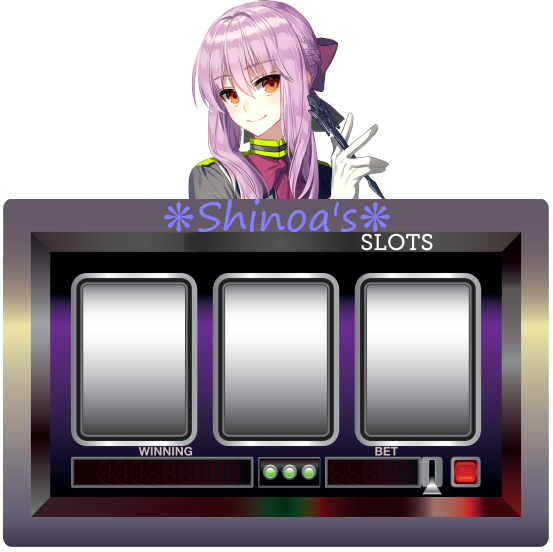
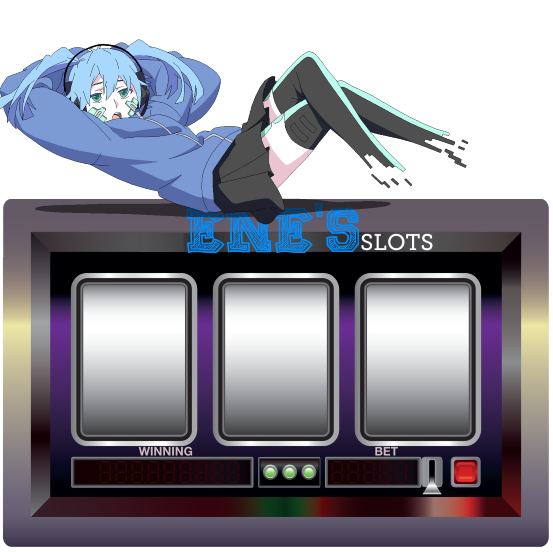
Updated to 1.55.3, Ene is ready! :3

Changed region(s): [[0.0, 0.0, 0.8608, 0.462]]

diff --git a/src/NadekoBot/Services/Administration/LogCommandService.cs b/src/NadekoBot/Services/Administration/LogCommandService.cs
@@ -66,14 +66,15 @@ namespace NadekoBot.Services.Administration
                 {
                     var keys = PresenceUpdates.Keys.ToList();
 
-                    await Task.WhenAll(keys.Select(async key =>
+                    await Task.WhenAll(keys.Select(key =>
                     {
-                        if (PresenceUpdates.TryRemove(key, out List<string> messages))
-                            try { await key.SendConfirmAsync(GetText(key.Guild, "presence_updates"), string.Join(Environment.NewLine, messages)); }
-                            catch
-                            {
-                                // ignored
-                            }
+                        if (PresenceUpdates.TryRemove(key, out var msgs))
+                        {
+                            var title = GetText(key.Guild, "presence_updates");
+                            var desc = string.Join(Environment.NewLine, msgs);
+                            return key.SendConfirmAsync(title, desc.TrimTo(2048));
+                        }
+                        return Task.CompletedTask;
                     }));
                 }
                 catch (Exception ex)
@@ -369,40 +370,59 @@ namespace NadekoBot.Services.Administration
             {
                 try
                 {
-                    if (!GuildLogSettings.TryGetValue(before.Guild.Id, out LogSetting logSetting)
-                        || (logSetting.UserUpdatedId == null))
+                    if (!GuildLogSettings.TryGetValue(before.Guild.Id, out LogSetting logSetting))
                         return;
 
                     ITextChannel logChannel;
-                    if ((logChannel = await TryGetLogChannel(before.Guild, logSetting, LogType.UserUpdated)) == null)
-                        return;
-                    var embed = new EmbedBuilder().WithOkColor().WithFooter(efb => efb.WithText(CurrentTime(before.Guild)))
-                        .WithTitle($"{before.Username}#{before.Discriminator} | {before.Id}");
-                    if (before.Nickname != after.Nickname)
+                    if (logSetting.UserUpdatedId != null && (logChannel = await TryGetLogChannel(before.Guild, logSetting, LogType.UserUpdated)) != null)
                     {
-                        embed.WithAuthor(eab => eab.WithName("👥 " + GetText(logChannel.Guild, "nick_change")))
+                        var embed = new EmbedBuilder().WithOkColor().WithFooter(efb => efb.WithText(CurrentTime(before.Guild)))
+                            .WithTitle($"{before.Username}#{before.Discriminator} | {before.Id}");
+                        if (before.Nickname != after.Nickname)
+                        {
+                            embed.WithAuthor(eab => eab.WithName("👥 " + GetText(logChannel.Guild, "nick_change")))
+                                .AddField(efb => efb.WithName(GetText(logChannel.Guild, "old_nick")).WithValue($"{before.Nickname}#{before.Discriminator}"))
+                                .AddField(efb => efb.WithName(GetText(logChannel.Guild, "new_nick")).WithValue($"{after.Nickname}#{after.Discriminator}"));
 
-                            .AddField(efb => efb.WithName(GetText(logChannel.Guild, "old_nick")).WithValue($"{before.Nickname}#{before.Discriminator}"))
-                            .AddField(efb => efb.WithName(GetText(logChannel.Guild, "new_nick")).WithValue($"{after.Nickname}#{after.Discriminator}"));
+                            await logChannel.EmbedAsync(embed).ConfigureAwait(false);
+                        }
+                        else if (!before.Roles.SequenceEqual(after.Roles))
+                        {
+                            if (before.Roles.Count < after.Roles.Count)
+                            {
+                                var diffRoles = after.Roles.Where(r => !before.Roles.Contains(r)).Select(r => r.Name);
+                                embed.WithAuthor(eab => eab.WithName("⚔ " + GetText(logChannel.Guild, "user_role_add")))
+                                    .WithDescription(string.Join(", ", diffRoles).SanitizeMentions());
+                            }
+                            else if (before.Roles.Count > after.Roles.Count)
+                            {
+                                var diffRoles = before.Roles.Where(r => !after.Roles.Contains(r)).Select(r => r.Name);
+                                embed.WithAuthor(eab => eab.WithName("⚔ " + GetText(logChannel.Guild, "user_role_rem")))
+                                    .WithDescription(string.Join(", ", diffRoles).SanitizeMentions());
+                            }
+                            await logChannel.EmbedAsync(embed).ConfigureAwait(false);
+                        }
                     }
-                    else if (!before.Roles.SequenceEqual(after.Roles))
+
+                    logChannel = null;
+                    if (logSetting.LogUserPresenceId != null && (logChannel = await TryGetLogChannel(before.Guild, logSetting, LogType.UserPresence)) != null)
                     {
-                        if (before.Roles.Count < after.Roles.Count)
+                        if (before.Status != after.Status)
                         {
-                            var diffRoles = after.Roles.Where(r => !before.Roles.Contains(r)).Select(r => r.Name);
-                            embed.WithAuthor(eab => eab.WithName("⚔ " + GetText(logChannel.Guild, "user_role_add")))
-                                .WithDescription(string.Join(", ", diffRoles).SanitizeMentions());
+                            var str = "🎭" + Format.Code(PrettyCurrentTime(after.Guild)) +
+                                  GetText(logChannel.Guild, "user_status_change",
+                                        "👤" + Format.Bold(after.Username),
+                                        Format.Bold(after.Status.ToString()));
+                            PresenceUpdates.AddOrUpdate(logChannel,
+                                new List<string>() { str }, (id, list) => { list.Add(str); return list; });
                         }
-                        else if (before.Roles.Count > after.Roles.Count)
+                        else if (before.Game?.Name != after.Game?.Name)
                         {
-                            var diffRoles = before.Roles.Where(r => !after.Roles.Contains(r)).Select(r => r.Name);
-                            embed.WithAuthor(eab => eab.WithName("⚔ " + GetText(logChannel.Guild, "user_role_rem")))
-                                .WithDescription(string.Join(", ", diffRoles).SanitizeMentions());
+                            var str = $"👾`{PrettyCurrentTime(after.Guild)}`👤__**{after.Username}**__ is now playing **{after.Game?.Name ?? "-"}**.";
+                            PresenceUpdates.AddOrUpdate(logChannel,
+                                new List<string>() { str }, (id, list) => { list.Add(str); return list; });
                         }
                     }
-                    else
-                        return;
-                    await logChannel.EmbedAsync(embed).ConfigureAwait(false);
                 }
                 catch
                 {
@@ -580,7 +600,7 @@ namespace NadekoBot.Services.Administration
                                 "👤" + Format.Bold(usr.Username + "#" + usr.Discriminator),
                                 Format.Bold(beforeVch.Name ?? ""));
                     }
-                    if (str != null)
+                    if (!string.IsNullOrWhiteSpace(str))
                         PresenceUpdates.AddOrUpdate(logChannel, new List<string>() { str }, (id, list) => { list.Add(str); return list; });
                 }
                 catch

diff --git a/src/NadekoBot/Modules/Utility/Utility.cs b/src/NadekoBot/Modules/Utility/Utility.cs
@@ -325,9 +325,9 @@ namespace NadekoBot.Modules.Utility
         {            
             await Context.Channel.EmbedAsync(
                 new EmbedBuilder().WithOkColor()
-                    .WithAuthor(eab => eab.WithName($"Click >>Here<< to invite me! | ❋Sнιησα❋ v{StatsService.BotVersion}")
-                                          .WithUrl("http://bit.ly/InvShinoa")
-                                          .WithIconUrl("http://i.imgur.com/ejLDGwO.png"))
+                    .WithAuthor(eab => eab.WithName($"Click >>Here<< to invite me! | ❋Σπε❋ v{StatsService.BotVersion}")
+                                          .WithUrl("http://bit.ly/InvEne")
+                                          .WithIconUrl("http://i.imgur.com/j1ZcL75.png"))
                     .AddField(efb => efb.WithName(GetText("author")).WithValue(_stats.Author).WithIsInline(true))
                     .AddField(efb => efb.WithName(GetText("botid")).WithValue(_client.CurrentUser.Id.ToString()).WithIsInline(true))
                     .AddField(efb => efb.WithName(GetText("shard")).WithValue($"#{_bot.ShardId} / {_creds.TotalShards}").WithIsInline(true))

diff --git a/src/NadekoBot/Modules/Music/Music.cs b/src/NadekoBot/Modules/Music/Music.cs
@@ -466,15 +466,14 @@ namespace NadekoBot.Modules.Music
         {
             var mp = await _music.GetOrCreatePlayer(Context);
 
-            var songs = await Task.WhenAll(mp.QueueArray().Songs
-                .Select(async s => new PlaylistSong()
+            var songs = mp.QueueArray().Songs
+                .Select(s => new PlaylistSong()
                 {
                     Provider = s.Provider,
                     ProviderType = s.ProviderType,
                     Title = s.Title,
-                    Uri = await s.Uri(),
                     Query = s.Query,
-                }).ToList());
+                }).ToList();
 
             MusicPlaylist playlist;
             using (var uow = _db.UnitOfWork)

diff --git a/src/NadekoBot/Services/GreetSettingsService.cs b/src/NadekoBot/Services/GreetSettingsService.cs
@@ -154,7 +154,10 @@ namespace NadekoBot.Services
                                 {
                                     await channel.EmbedAsync(embedData.ToEmbed(), embedData.PlainText?.SanitizeMentions() ?? "").ConfigureAwait(false);
                                 }
-                                catch (Exception ex) { _log.Warn(ex); }
+                                catch (Exception ex)
+                                {
+                                    _log.Warn(ex);
+                                }
                             }
                             else
                             {

diff --git a/src/NadekoBot/Modules/CustomReactions/CustomReactions.cs b/src/NadekoBot/Modules/CustomReactions/CustomReactions.cs
@@ -79,7 +79,7 @@ namespace NadekoBot.Modules.CustomReactions
                 .WithTitle(GetText("new_cust_react"))
                 .WithDescription($"#{cr.Id}")
                 .AddField(efb => efb.WithName(GetText("trigger")).WithValue(key))
-                .AddField(efb => efb.WithName(GetText("response")).WithValue(message))
+                .AddField(efb => efb.WithName(GetText("response")).WithValue(message.Length > 1024 ? GetText("redacted_too_long") : message))
                 ).ConfigureAwait(false);
         }
 

diff --git a/src/NadekoBot/Modules/Administration/Commands/UserPunishCommands.cs b/src/NadekoBot/Modules/Administration/Commands/UserPunishCommands.cs
@@ -204,7 +204,7 @@ namespace NadekoBot.Modules.Administration
                 IGrouping<ulong, Warning>[] warnings;
                 using (var uow = _db.UnitOfWork)
                 {
-                    warnings = uow.Warnings.GetAll().GroupBy(x => x.UserId).ToArray();
+                    warnings = uow.Warnings.GetForGuild(Context.Guild.Id).GroupBy(x => x.UserId).ToArray();
                 }
 
                 await Context.Channel.SendPaginatedConfirmAsync((DiscordSocketClient)Context.Client, page, async (curPage) =>

diff --git a/src/NadekoBot/Modules/Searches/Commands/LoLCommands.cs b/src/NadekoBot/Modules/Searches/Commands/LoLCommands.cs
@@ -33,7 +33,7 @@ namespace NadekoBot.Modules.Searches
         [NadekoCommand, Usage, Description, Aliases]
         public async Task Lolban()
         {
-            const int showCount = 8;
+            //const int showCount = 8;
             //http://api.champion.gg/stats/champs/mostBanned?api_key=YOUR_API_TOKEN&page=1&limit=2
             try
             {

diff --git a/src/NadekoBot/Services/Database/Repositories/IWarningsRepository.cs b/src/NadekoBot/Services/Database/Repositories/IWarningsRepository.cs
@@ -7,5 +7,6 @@ namespace NadekoBot.Services.Database.Repositories
     {
         Warning[] For(ulong guildId, ulong userId);
         Task ForgiveAll(ulong guildId, ulong userId, string mod);
+        Warning[] GetForGuild(ulong id);
     }
 }
